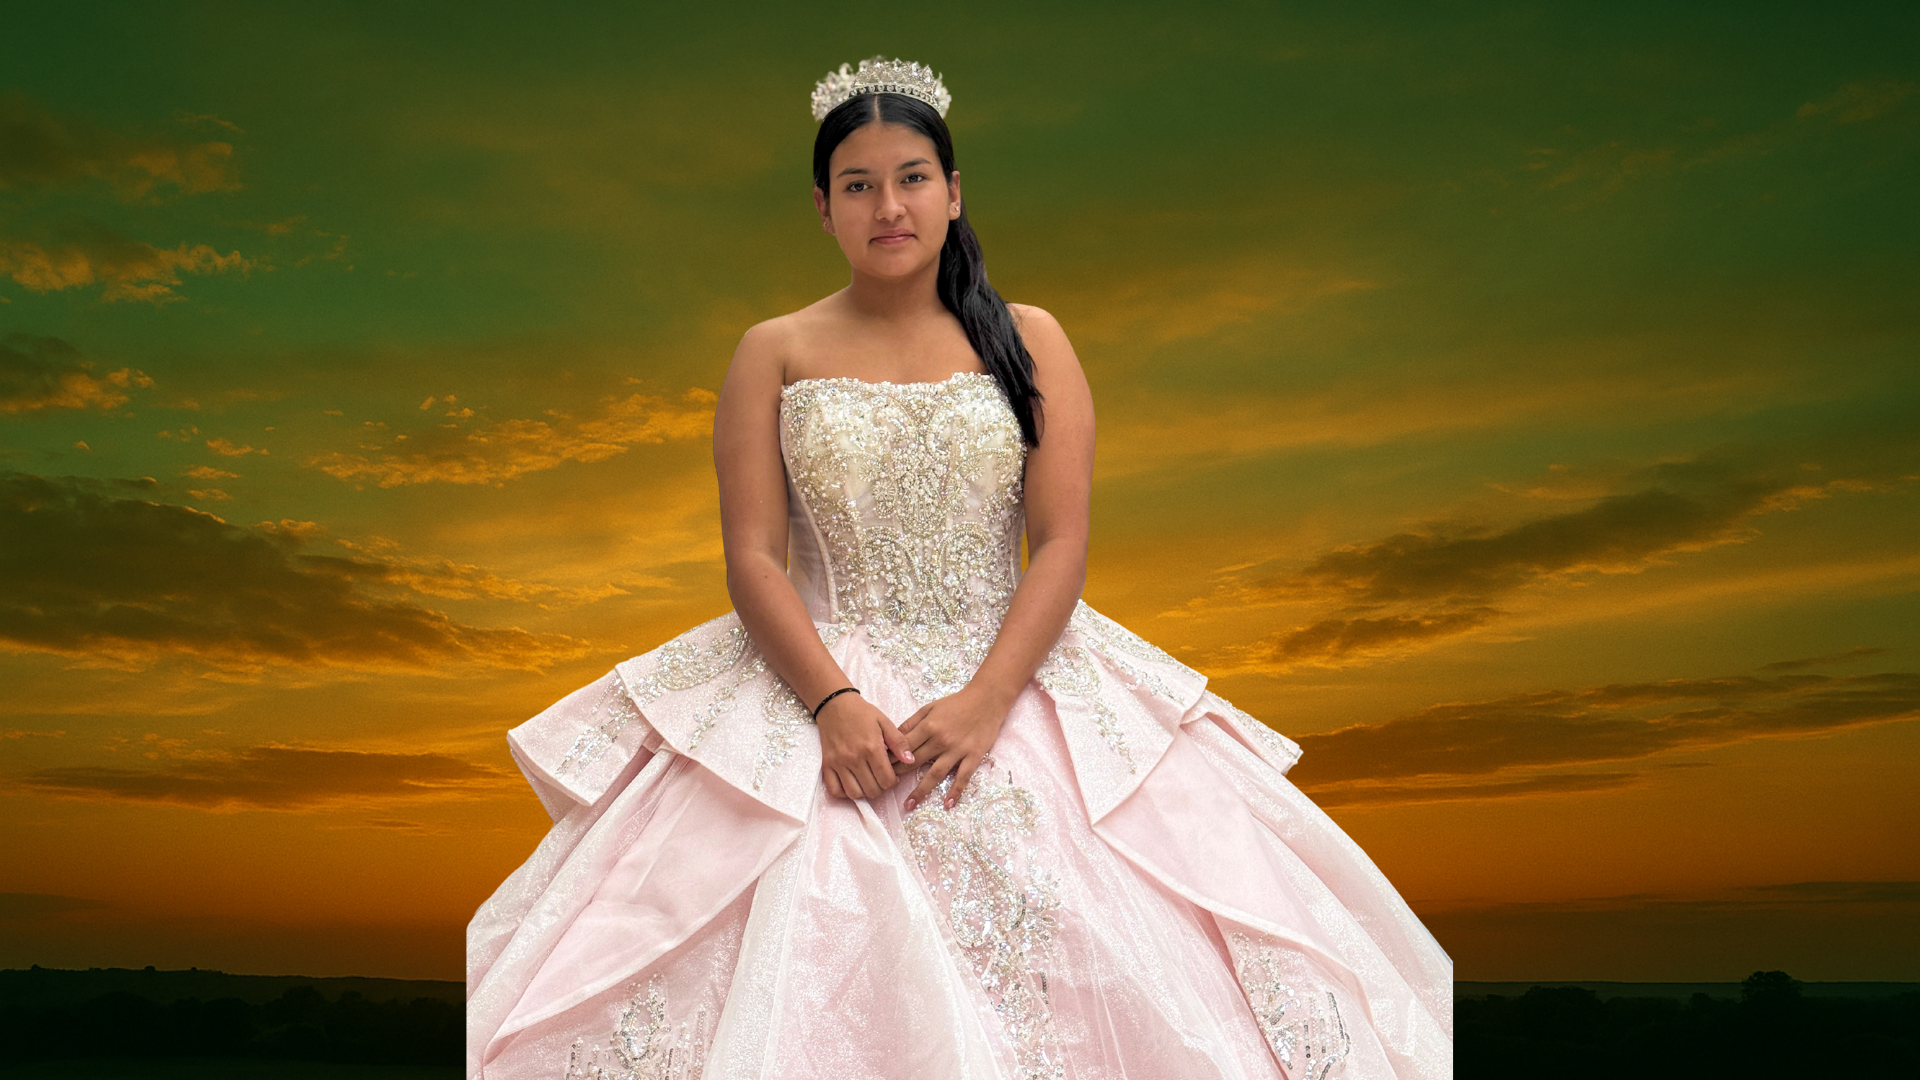
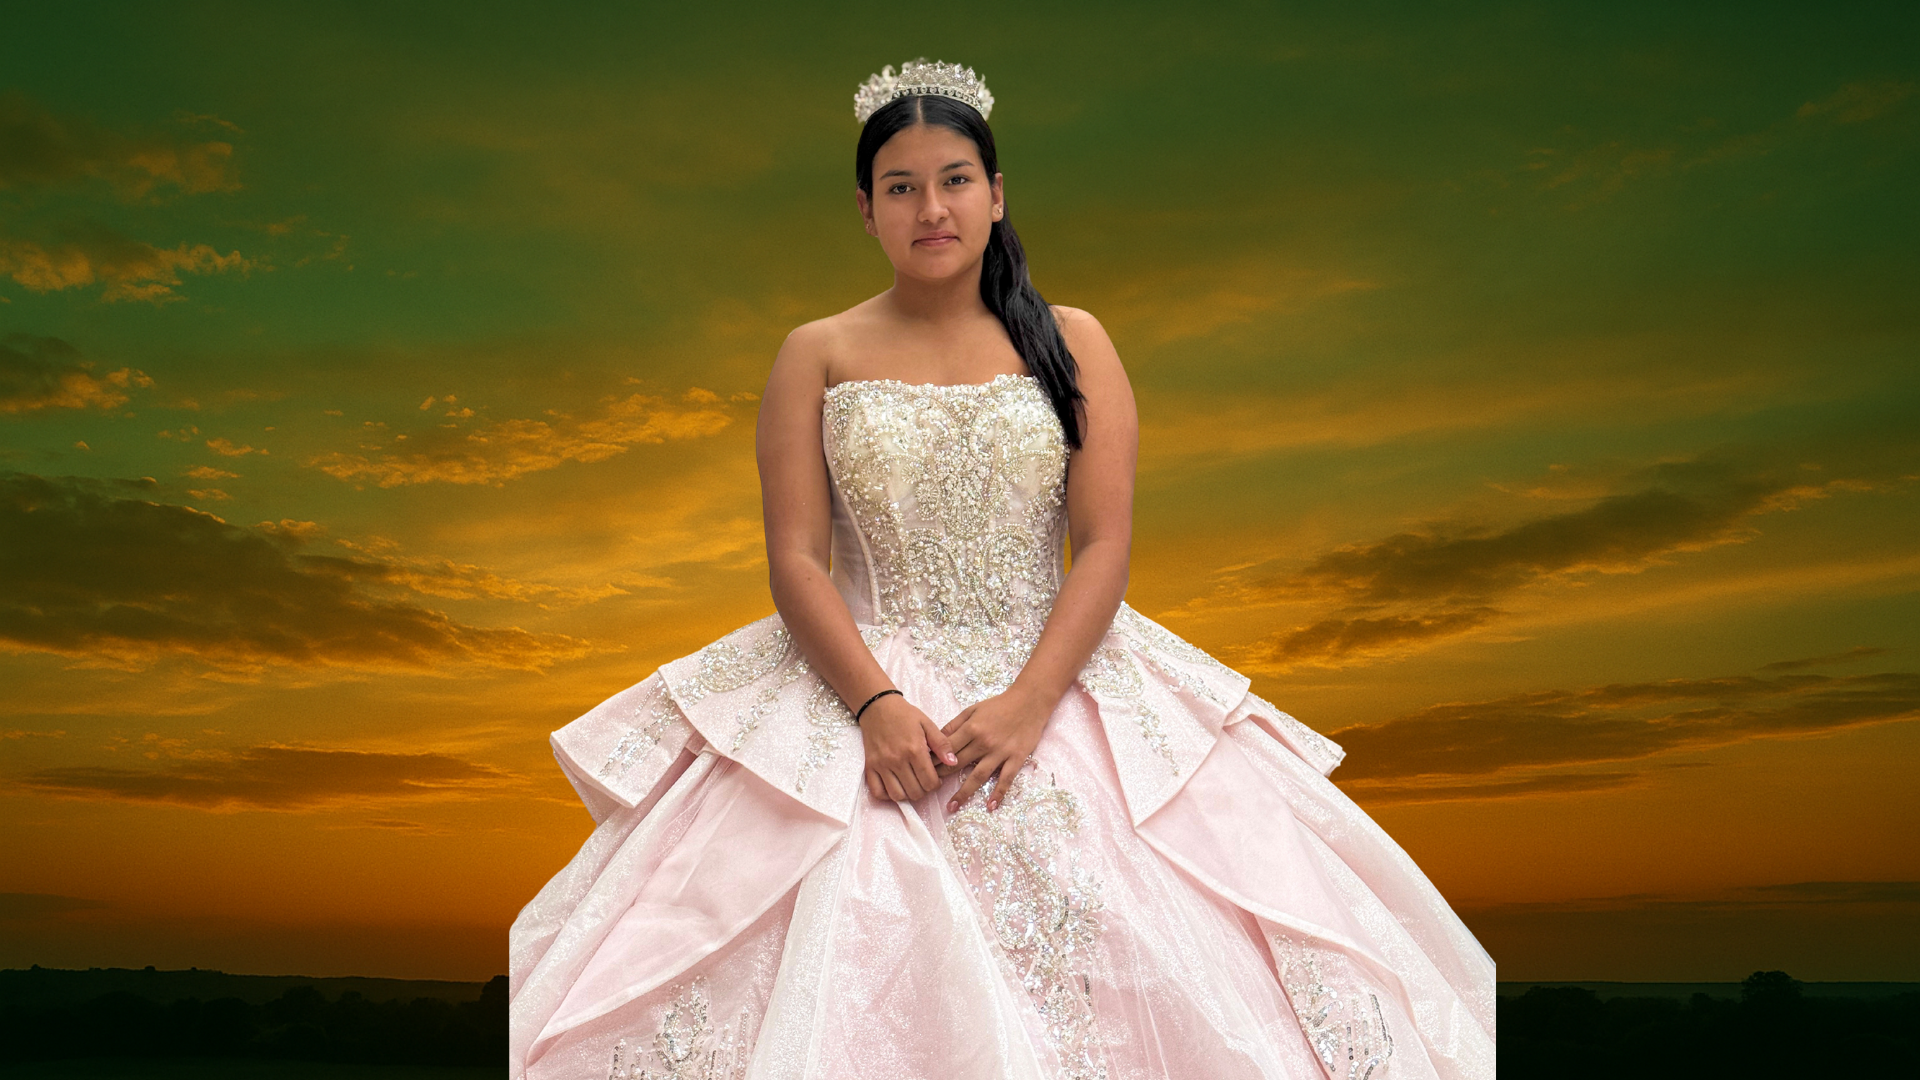
para la ceremonia pon esta imagen public/Iglesia.jpeg
para la recepcion

Changed region(s): [[0.2188, 0.0306, 0.7812, 1.0]]

diff --git a/src/lib/data.ts b/src/lib/data.ts
@@ -26,8 +26,8 @@ export const eventData: Event = {
       lat: 4.6377,
       lng: -74.064,
       time: '16:00',
-      photoUrl: 'https://picsum.photos/seed/ceremony/800/600',
-      imageHint: 'hacienda garden',
+      photoUrl: '/Iglesia.jpeg',
+      imageHint: 'church ceremony',
       mapUrl: 'https://maps.app.goo.gl/g2d5Yk2z5GqN8Xqf9',
     },
     {
@@ -37,7 +37,7 @@ export const eventData: Event = {
       lat: 4.6625,
       lng: -74.05,
       time: '18:00',
-      photoUrl: 'https://picsum.photos/seed/reception/800/600',
+      photoUrl: '/Salamanca.jpg',
       imageHint: 'event hall night',
       mapUrl: 'https://maps.app.goo.gl/g2d5Yk2z5GqN8Xqf9',
     },
